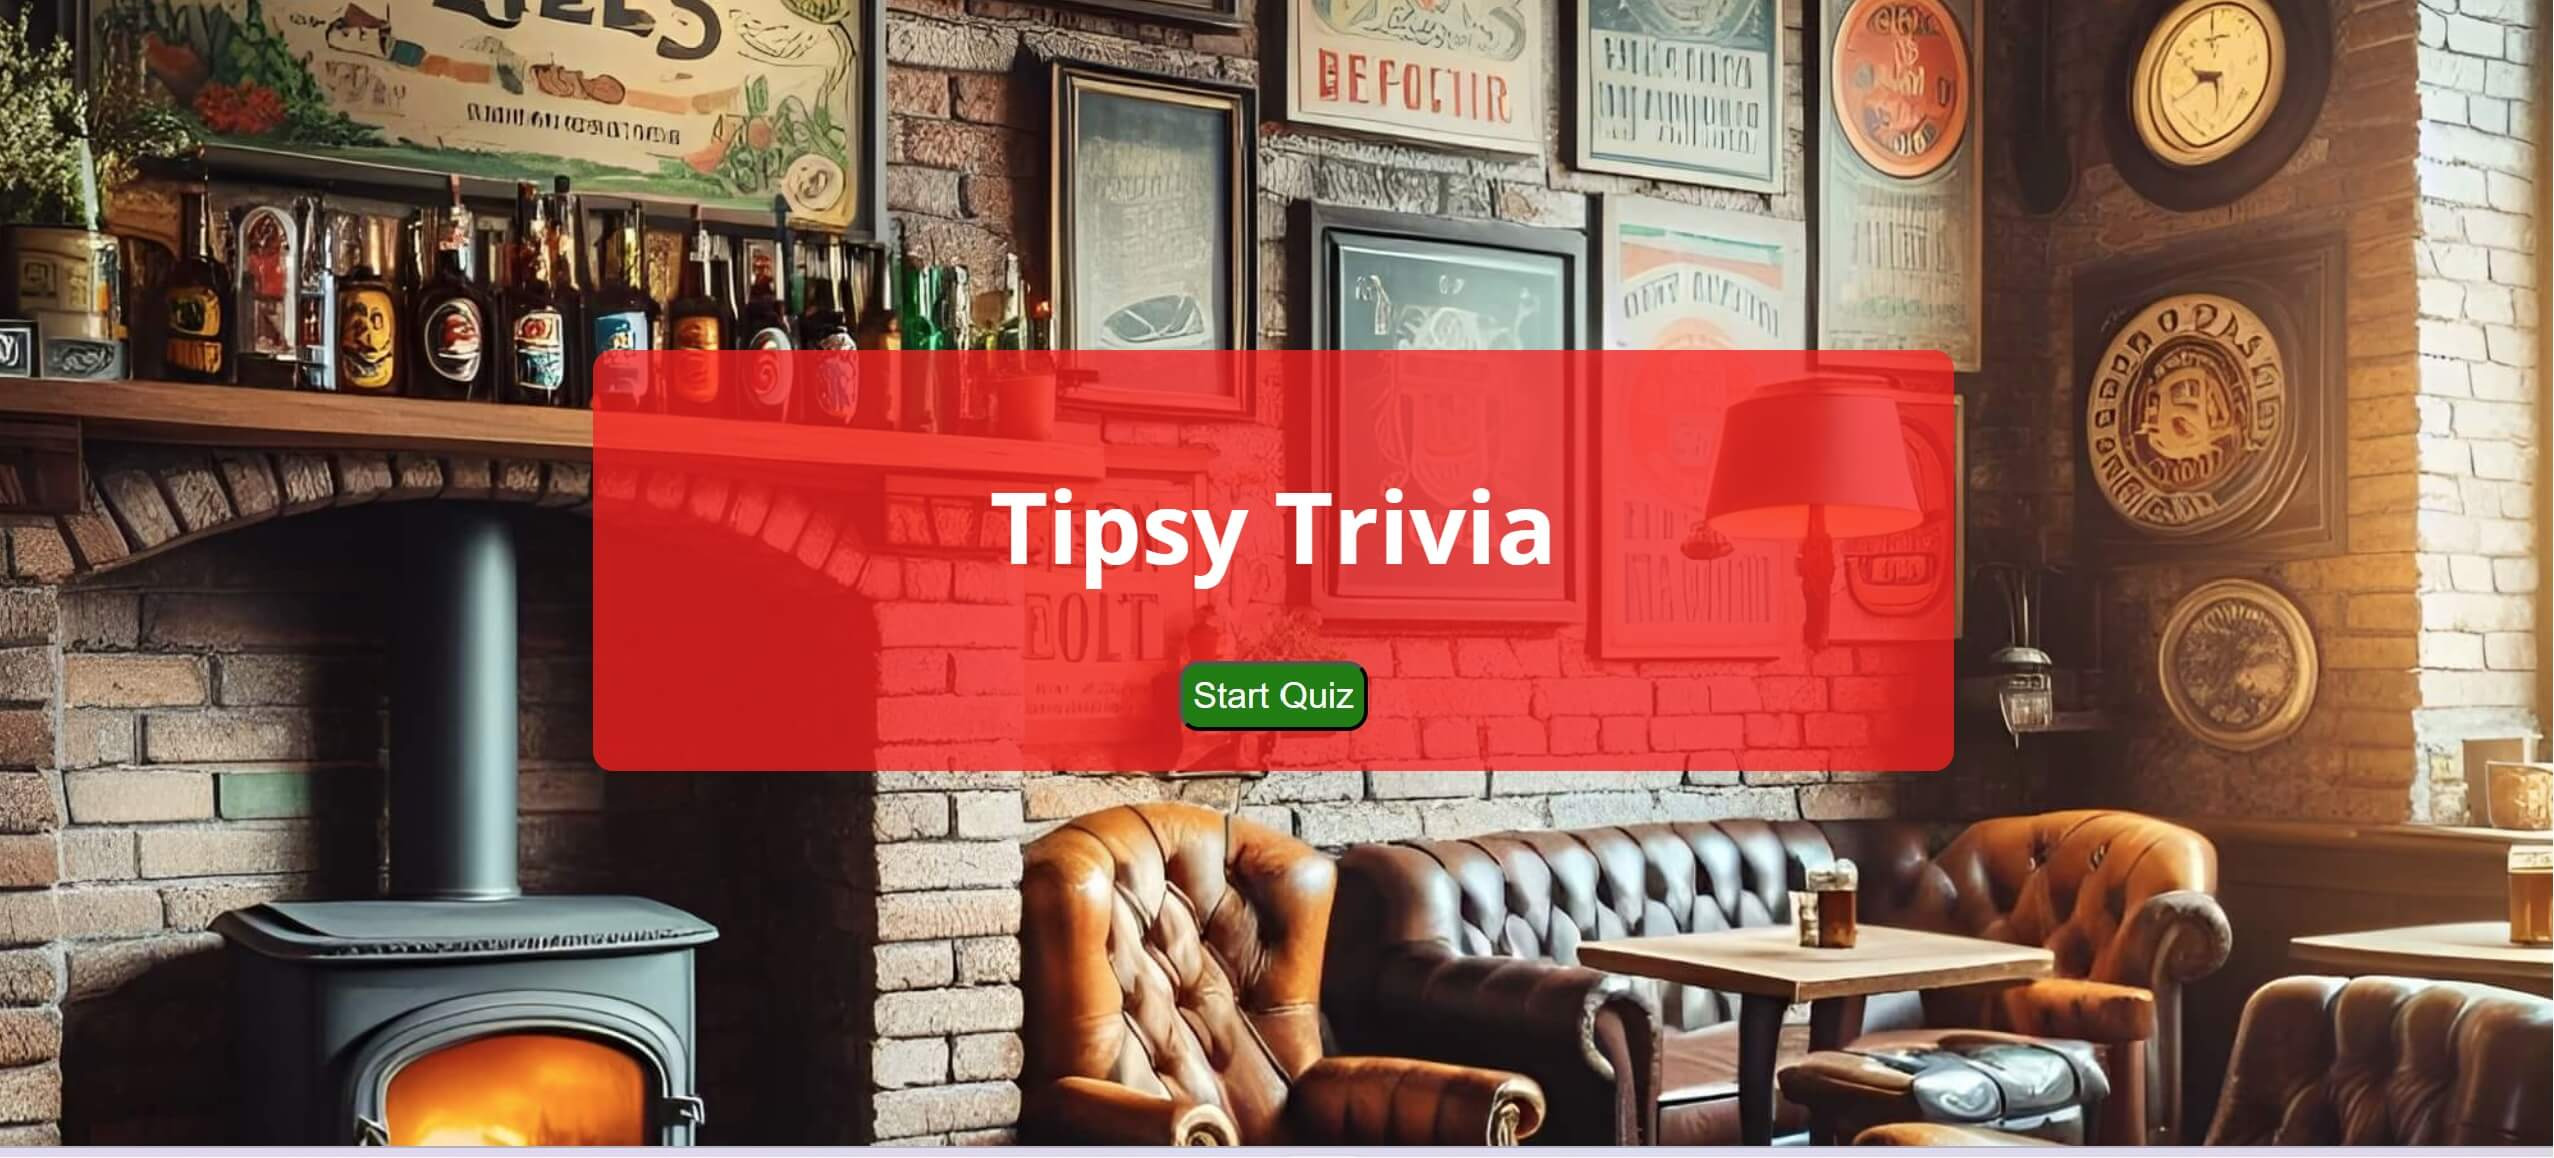
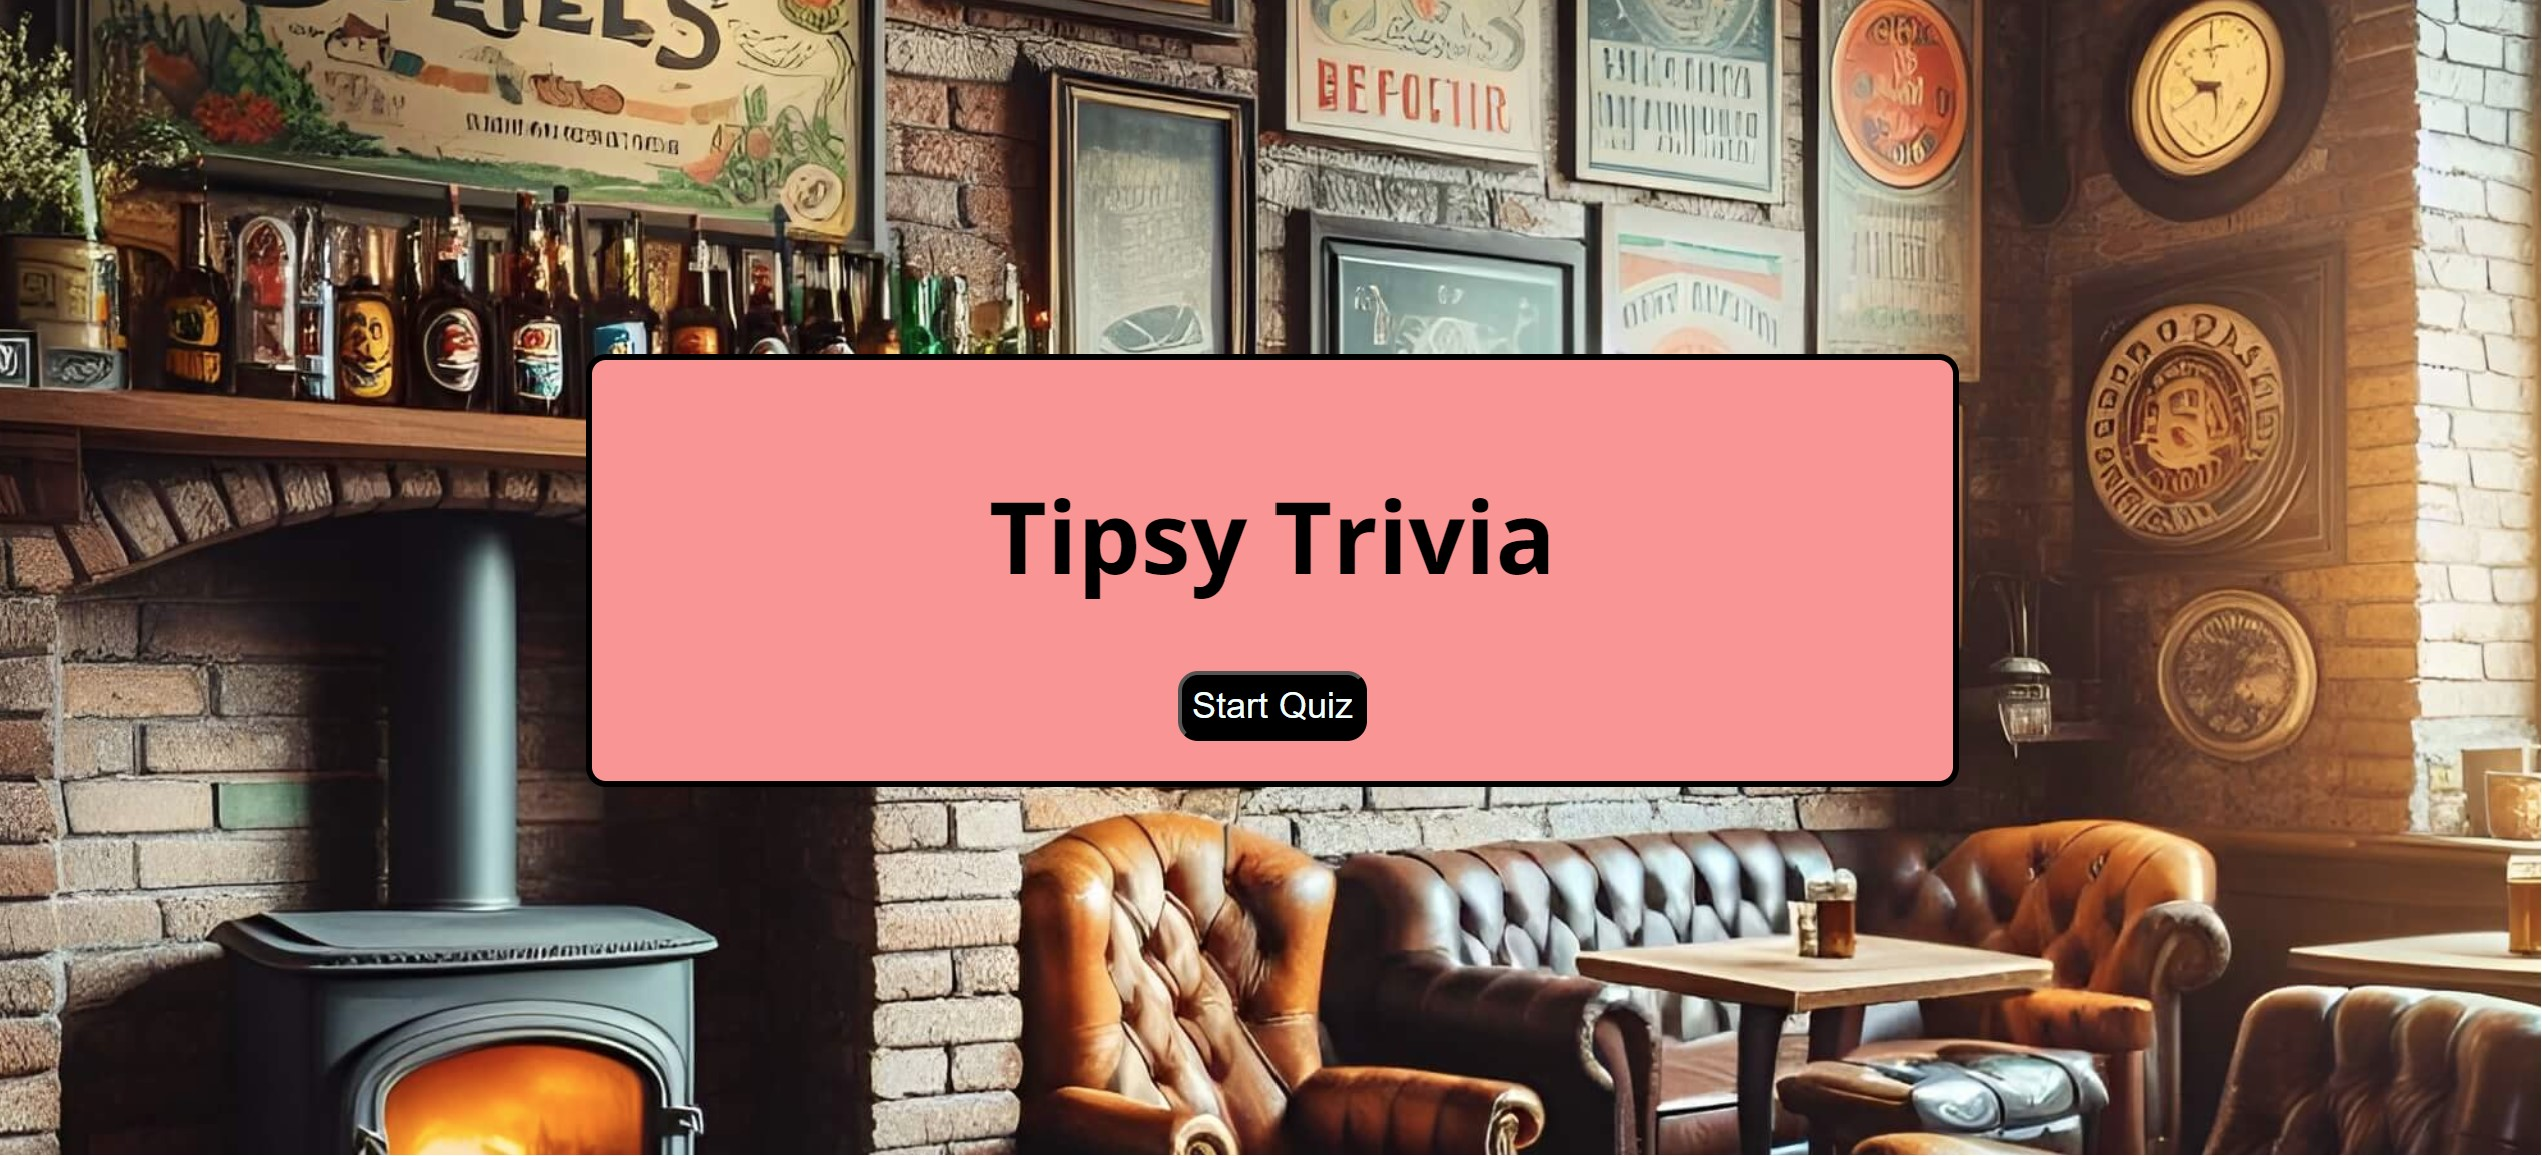
Updated images to final website design

diff --git a/README.md b/README.md
@@ -4,7 +4,7 @@
 
 Tipsy Trivia is an interactive website game which is an entertaining general knowledge test exercise. The game is engaging, and is challenging for brain puzzles and information recall to test the audience's general knowledge ability. The site is targeted towards people who are interested in gaming and people who are curious about testing their general knowledge skills. The interactive site has a USP of user friendly design and visuals to make the game accessible to a wide audience. The interactive website is particularly engaging with its use of a game timer, a score counter and clear option choices to encourage and motivate the audience to engage and continue to practice their skills.
 
-![Mockup](assets/readmeimages/resp-mockup.png)
+![Mockup](assets/readmeimages/gameresponsive.jpg)
 
 
 
@@ -29,6 +29,12 @@ Tipsy Trivia is an interactive website game which is an entertaining general kno
 
 An option to choose the difficulty of questions generated by the API could also be implemented. Also a modal on the home page to show instructions for the quiz, although it is already fairly intuitive.
 
+## User experience (UX)
+
+![Mockup](assets/readmeimages/responsivegame.jpg)
+
+The game page is responsive across a range of different sized devices, and has an eye catching design and colour scheme.
+
 
 ## Features and Design
 
@@ -37,7 +43,7 @@ An option to choose the difficulty of questions generated by the API could also 
 The start page provides a clear theme of pub quiz game, with a warm inviting and interactive content. For ease of use the text is minimal for readability.The background image was selected as a high quality visial and a clear title was added and high quality visuals to draw the eye centrally to invite the audience to proceed. 
     
 
-  <img src="assets/readmeimages/qstpage.jpg" alt="question page layout" width="300" height="200">
+<img src="assets/readmeimages/qstpage.jpg" alt="question page layout" width="300" height="200">
 
 The game has a simple and intuitive layout so users know how to play, there is a question followed by four possible answers. The page also features a home button so users can return to the homepage, as well as a countdown timer, score counter that is updated as they progress through the quiz and a progress bar.
 
@@ -52,6 +58,12 @@ The user knows they have selected the correct answer as the background turns gre
 We used an API to generate the questions, to encourage users to return for new questions.
 
 [Link to API site](https://opentdb.com/)
+
+
+<img src="assets/readmeimages/api.jpg" alt="api database page" width="300" height="200">
+
+
+
 
 <img src="assets/readmeimages/timer.jpg" alt="image timer" width="300" height="200">
 
@@ -68,15 +80,19 @@ There is a score counter that updates after each correct answer so the user can 
 
 There is a progress bar on larger screens to show users which question they are currently on and how they are progressing through the quiz
 
-<img src="assets/readmeimages/playagain.jpg" alt="play again button" width="300" height="200">
+<img src="assets/readmeimages/playagain.jpg" alt="play again button" width="200" height="120">
 
 The progress bars becomes a play again button via JavaScript at the end of the quiz to allow users to play again.
     
 <img src="assets/readmeimages/finalscorepage.jpg" alt="final score page" width="300" height="200">
-    
+
+<img src="assets/readmeimages/legend.png" alt="final score page" width="300" height="200"> 
+
 Once the user has answered all the questions or the timer has run out, the end page of the quiz displays their score with the message of "try harder next time" if they score below 6 or "you are a legend" if the score is above 6, this keeps the user motivated to try again
     
-<img src="assets/readmeimages/placeholder.jpg" alt="html placeholder image" width="300" height="200">
+
+
+<img src="assets/readmeimages/placeholder.jpg" alt="html placeholder image" width="100" height="50">
 
 There is a html image that acts as a placeholder whilst the questions load as previously there would be text that populated the question container that would show before the questions are generated. 
 
